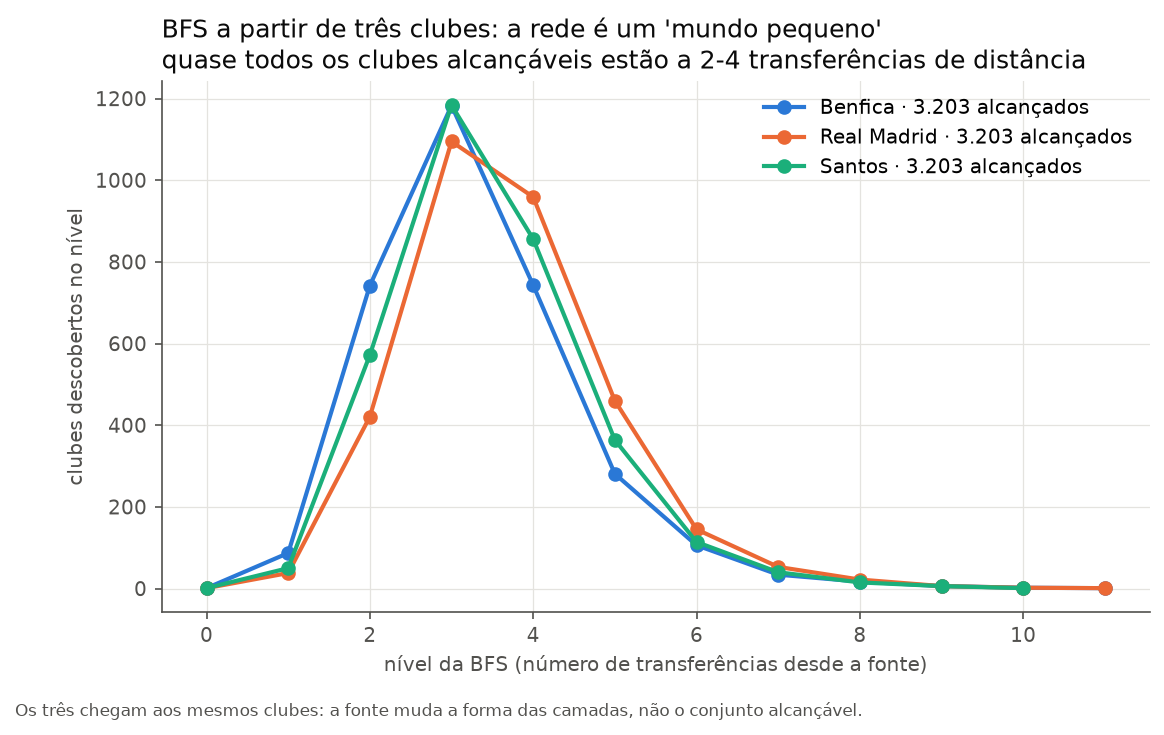
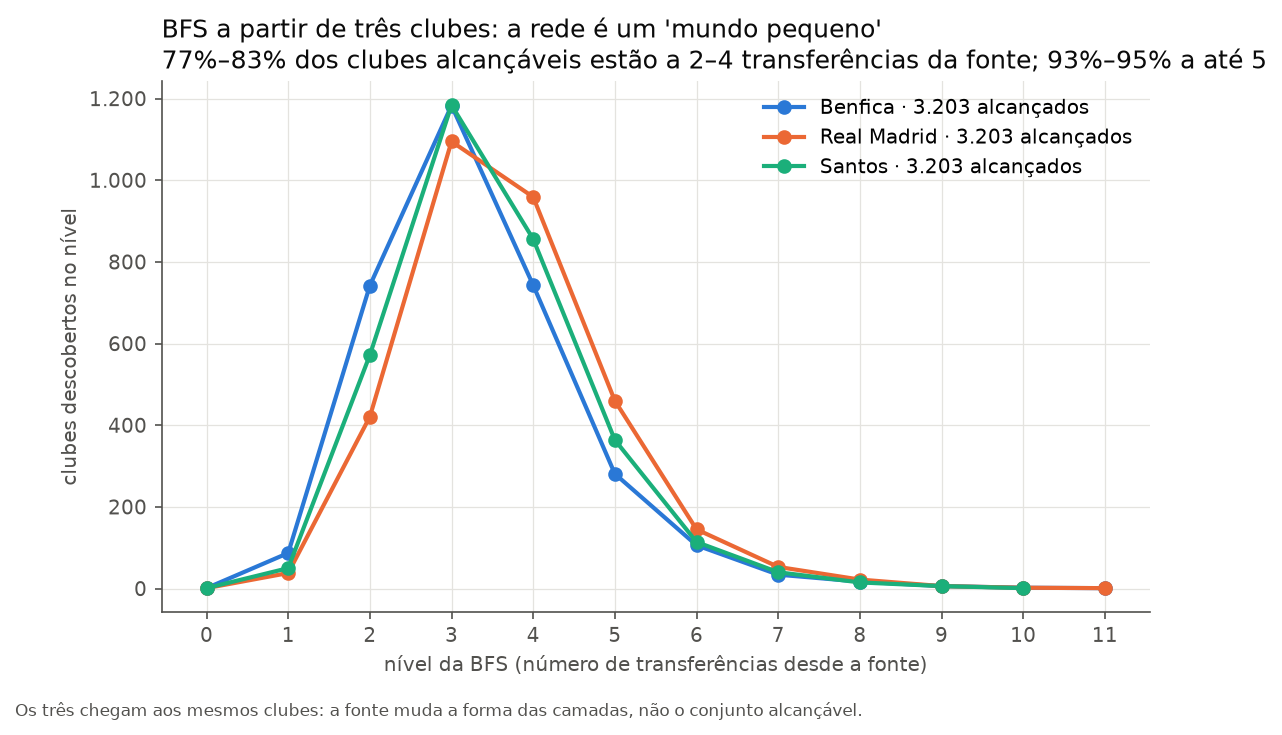
a3: titulo com as fracoes reais por nivel da bfs
O título dizia que quase todos os clubes alcançáveis estão a 2–4
transferências; os números são 77%–83% (e 93%–95% até o nível 5). As
frações agora são calculadas das camadas do relatório; nota A3 ajustada.

diff --git a/src/viz_parte2.py b/src/viz_parte2.py
@@ -442,13 +442,20 @@ def escalabilidade(relatorio, saida):
 
 def camadas_bfs(relatorio, saida):
     fig, ax = plt.subplots(figsize=(8.5, 4.6))
+    resumos = []
     for b, cor in zip(relatorio["bfs"], CORES):
         ax.plot(range(len(b["camadas"])), b["camadas"], "o-", color=cor, lw=2, ms=6,
-                label=f"{b['nome']} · {b['alcancados']:,} alcançados".replace(",", "."))
+                label=f"{b['nome']} · {br(b['alcancados'])} alcançados")
+        resumos.append(resumo_camadas(b["camadas"]))
+    meio = [r[0] for r in resumos]
+    ate5 = [r[1] for r in resumos]
+    ax.set_xticks(range(max(len(b["camadas"]) for b in relatorio["bfs"])))
+    ax.yaxis.set_major_formatter(FuncFormatter(lambda v, _: br(v)))
     ax.set_xlabel("nível da BFS (número de transferências desde a fonte)")
     ax.set_ylabel("clubes descobertos no nível")
     ax.set_title("BFS a partir de três clubes: a rede é um 'mundo pequeno'\n"
-                 "quase todos os clubes alcançáveis estão a 2-4 transferências de distância")
+                 f"{pct(min(meio))}–{pct(max(meio))} dos clubes alcançáveis estão a 2–4 transferências da fonte; "
+                 f"{pct(min(ate5))}–{pct(max(ate5))} a até 5")
     ax.legend()
     rodape(fig, "Os três chegam aos mesmos clubes: a fonte muda a forma das camadas, não o conjunto alcançável.")
     return salvar(fig, Path(saida) / "a3_camadas_bfs.png")

diff --git a/docs/parte2/relatorio_parte2.md b/docs/parte2/relatorio_parte2.md
@@ -328,9 +328,9 @@ medido segue a complexidade. Por que esse gráfico: linhas para crescimento em f
 normalizar pelo maior grafo deixa medida e teoria na mesma escala sem eixo duplo.
 
 **A3 — `a3_camadas_bfs.png` (algoritmos).** Clubes descobertos por nível da BFS a partir das três
-fontes. Insight: o pico fica no nível 3 e quase tudo está a até 4 transferências — mundo pequeno.
-Por que esse gráfico: linha porque o nível é ordenado; três séries no mesmo eixo para comparar as
-fontes.
+fontes. Insight: o pico fica no nível 3; 77%–83% dos clubes alcançáveis estão a 2–4 transferências
+da fonte e 93%–95% a até 5 — mundo pequeno. Por que esse gráfico: linha porque o nível é ordenado;
+três séries no mesmo eixo para comparar as fontes.
 
 **A4 — `a4_caminhos.png` (algoritmos).** Para os 6 pares do Dijkstra, uma barra com o custo
 original do caminho encontrado, a rota escrita ao lado e o número de arcos do Dijkstra contra o de
